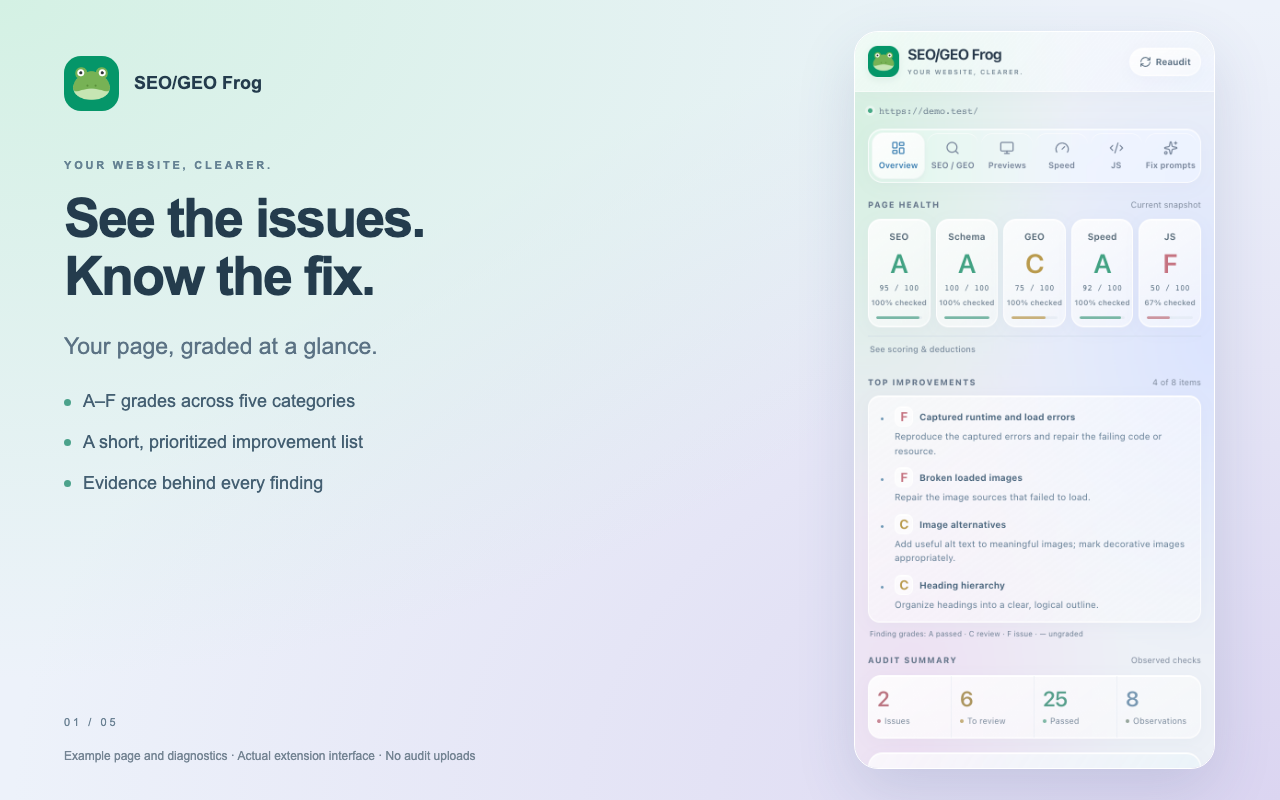
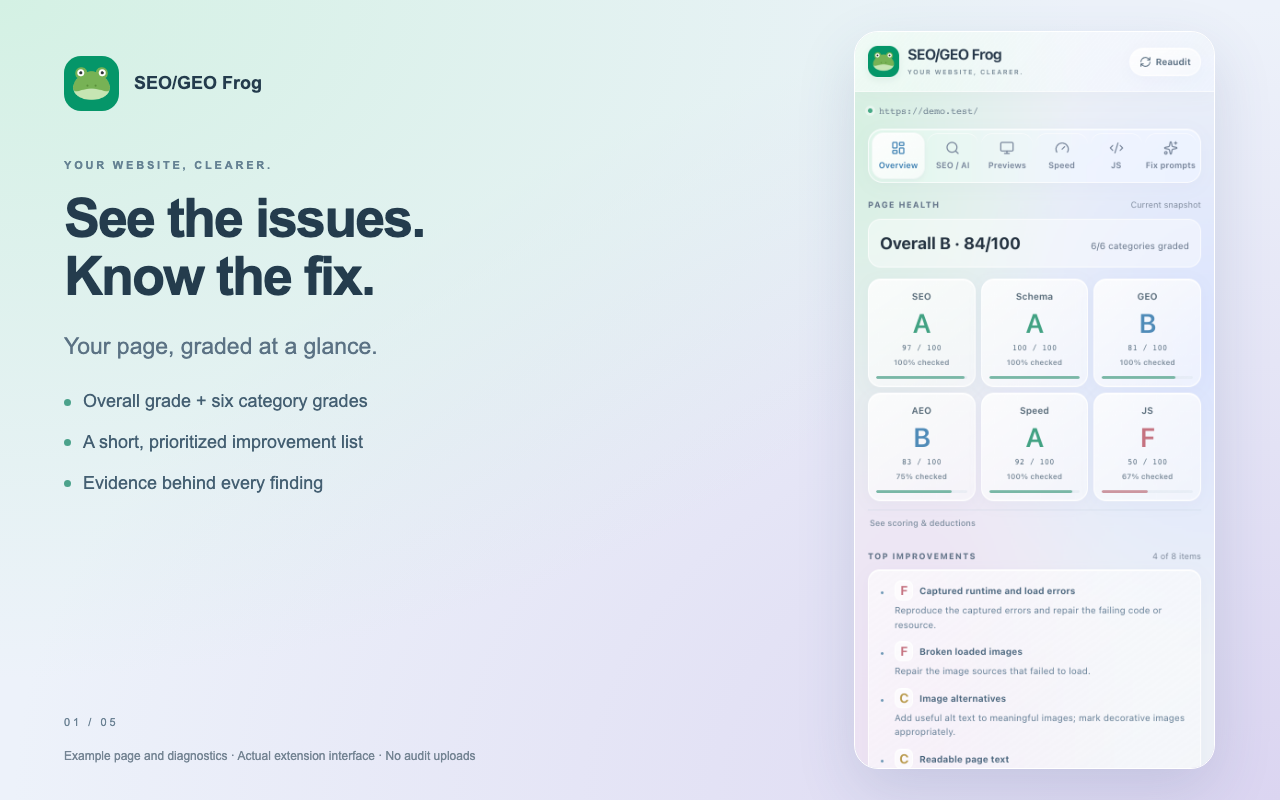
Refresh store screenshots and release notes for 4.4.2

diff --git a/docs/store/4.4.2/RELEASE.md b/docs/store/4.4.2/RELEASE.md
@@ -1,0 +1,25 @@
+# SEO/GEO Frog 4.4.2
+
+This release adds AEO checks and practical writing tips, plus an overall page grade in the toolbar badge and overview. Badge colors follow the grade, and counts from the earlier implementation have been replaced by the overall letter. Navigation and failed audits clear stale grades.
+
+The implementation is already on main in commits f7e80e3, 558bfa1, and 51b67d6. This release PR refreshes the store screenshots and repository overview image; it does not reintroduce those code changes.
+
+## Store screenshots
+
+All five 1280 × 800 images use the current extension UI with a controlled example page. Runtime errors are intentionally generated in the fixture; displayed performance values are local observations, not production benchmarks.
+
+1. screenshot-overview.png — overall score and all six category grades.
+2. screenshot-seo.png — AEO tips and unanswered-question finding.
+3. screenshot-previews.png — search and social preview tools.
+4. screenshot-speed.png — local performance measurements.
+5. screenshot-fixes.png — evidence-based coding prompts.
+
+## Validation
+
+- 33 automated tests passed.
+- Native Chromium verified badge letter, color, tooltip, and reset after navigation.
+- Browser checks passed for Reaudit, retry recovery, all tabs, and layout at 320, 390, and 600 pixels.
+- Upload ZIP files were compared byte-for-byte with runtime source files.
+- Existing permissions remain activeTab, scripting, and sidePanel.
+
+Automatic publication after Google approval is intended. Upload and review status must be verified in the Chrome Web Store dashboard; these notes do not claim approval.
